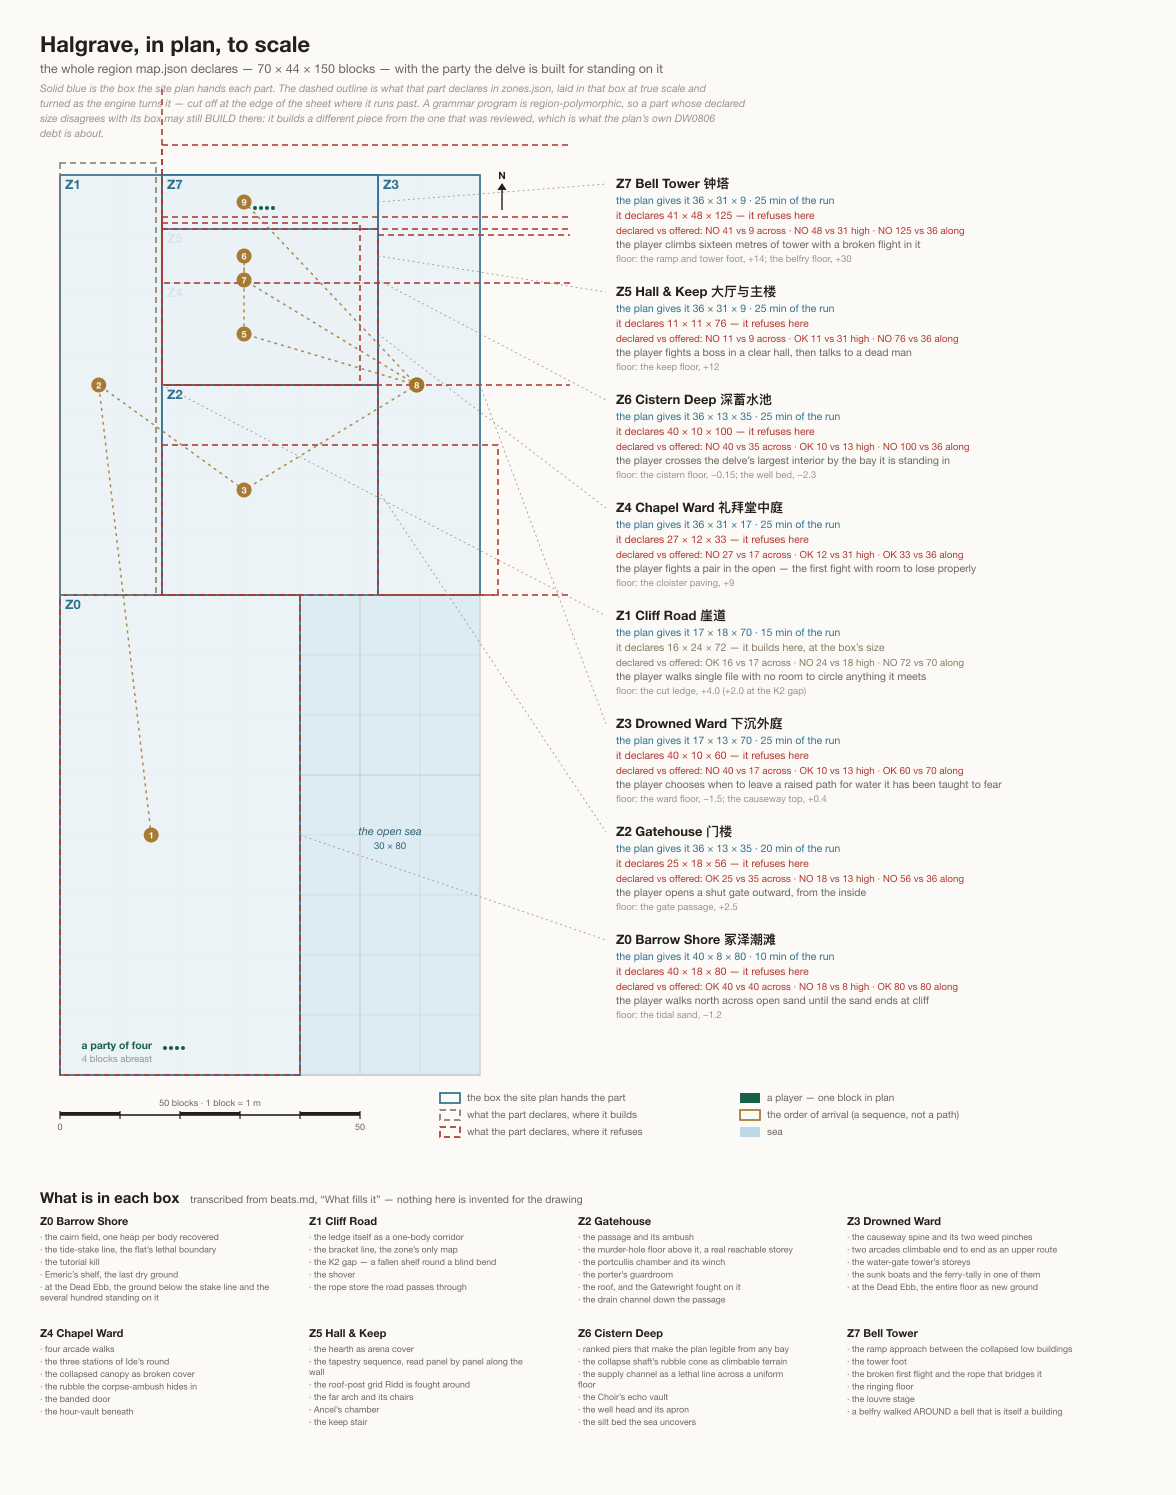
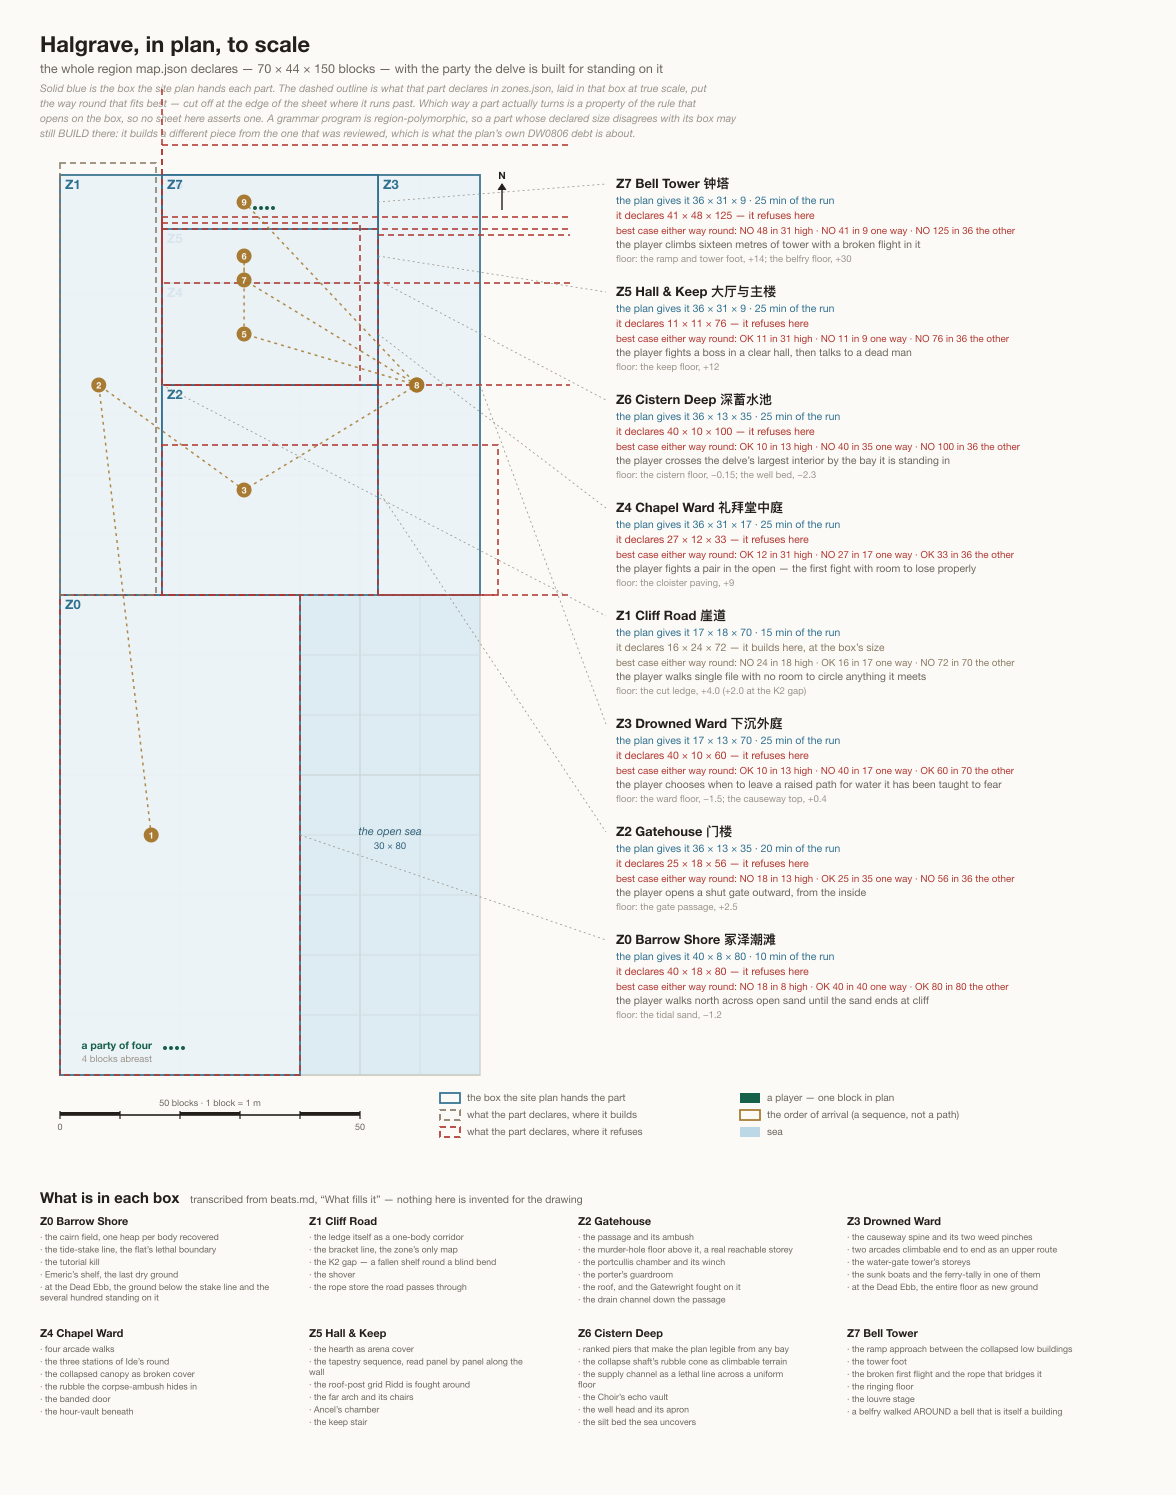
content(bell-r2): a sheet that asserts which way a part turns is asserting something it cannot know
The first cut of these drawings compared each part against its box on named
axes -- across, high, along -- and to do that it had to decide which way the
part turns in the box it is handed. It took that from the site plan derivation's
observation that a rule opens on the largest horizontal, and applied it to all
eight parts.

That is wrong at least once, and the engine says so in its own words: the chapel
ward's refusal names 33 blocks needed along world z against a scope 17 across,
untuned, while the derivation records four other parts reading their box turned.
Turning is a property of the rule that opens on the scope, not of the zone, so
it cannot be derived from the box and the region alone.

The sheets now assert no turn at all. Each part is compared against its box in
whichever orientation fits best -- height on its own, then the footprint either
way round -- which needs no assumption and loses nothing: where the best case
fails, no turn saves it, and where the best case fits, the sheet claims only
that. The dashed outline on the site plan is drawn the same way, best case, and
the sheet says so on its face.

Nothing in the reading changes. All seven parts that refuse still refuse in the
best orientation available to them, and the flat still misses on height alone
with both its plan numbers exact -- which is the refusal the zone-program audit
reports first when it expands the map.

diff --git a/campaigns/the-drowned-bell-r2/design/review/site-scale/draw.py b/campaigns/the-drowned-bell-r2/design/review/site-scale/draw.py
@@ -54,18 +54,21 @@ def local_y(param):
 
 
 # --------------------------------------------------------------------------
-def orient_box(dx, dz, bx, bz):
-    """The allocation as the part meets it.
+def best_fit(dx, dz, bx, bz):
+    """The box's two horizontals, put the way round that most favours fitting.
 
-    A grammar rule opens on the box's largest horizontal, so a part turns its
-    own length onto whichever of the box's two horizontals is longer
-    (`grammar.md` §5c, the reading `map-site-plan.md` §5 records). This is the
-    one placement fact on these sheets read out of documented behaviour rather
-    than measured; every sheet using it says so.
+    Which way a part actually turns in its box is a property of the rule that
+    opens on the scope, not of the zone: `map-site-plan.md` §5 records Z2, Z5,
+    Z6 and Z7 reading their box turned, while the engine's own refusal for Z4
+    names its 33 on world z untuned. So these sheets assert no turn at all.
+    They compare the part's footprint against the box **in whichever
+    orientation fits best**, which needs no assumption and is still decisive:
+    where the best case fails the part cannot fit either way round, and where
+    the best case fits the sheet claims only that.
     """
-    if dx >= dz:
-        return max(bx, bz), min(bx, bz)
-    return min(bx, bz), max(bx, bz)
+    d = sorted((dx, dz))
+    b = sorted((bx, bz))
+    return (b[0], b[1]) if d[0] == dx else (b[1], b[0])
 
 
 def crop(*masks):
@@ -183,8 +186,10 @@ def sheet1(path):
           'party the delve is built for standing on it' % (RX, RY, RZ),
           'Solid blue is the box the site plan hands each part. The dashed '
           'outline is what that part declares in zones.json, laid in that box '
-          'at true scale and turned as the engine turns it — cut off at the '
-          'edge of the sheet where it runs past. A grammar program is '
+          'at true scale, put the way round that fits best — cut off at the '
+          'edge of the sheet where it runs past. Which way a part actually '
+          'turns is a property of the rule that opens on the box, so no sheet '
+          'here asserts one. A grammar program is '
           'region-polymorphic, so a part whose declared size disagrees with '
           'its box may still BUILD there: it builds a different piece from the '
           'one that was reviewed, which is what the plan’s own DW0806 debt is '
@@ -218,9 +223,8 @@ def sheet1(path):
     for zid in ZF.ORDER:
         (ox, oy, oz), (bx, by, bz) = BOX[zid]
         dx, dy, dz = ZONES[zid]['region']
-        wx, wz = orient_box(dx, dz, bx, bz)
-        wx, wz = (max(dx, dz), min(dx, dz)) if bx >= bz else (min(dx, dz),
-                                                              max(dx, dz))
+        # drawn the way round that fits best, which is the only claim made
+        wx, wz = (dx, dz) if (bx >= bz) == (dx >= dz) else (dz, dx)
         ok = fits(zid)
         sh.rect(px(ox), py(oz + wz), wx * S, wz * S, 'none',
                 PART if ok else OVER, 1.7, .9, '6,4')
@@ -267,13 +271,13 @@ def sheet1(path):
                 'it declares %d × %d × %d  —  %s' %
                 (dx, dy, dz, 'it builds here, at the box’s size' if ok
                  else 'it refuses here'), 10.5, PART if ok else OVER)
-        abx, abz = orient_box(dx, dz, bx, bz)
+        abx, abz = best_fit(dx, dz, bx, bz)
         marks = []
-        for got, need, ax in ((abx, dx, 'across'), (by, dy, 'high'),
-                              (abz, dz, 'along')):
-            marks.append('%s %d vs %d %s' % ('OK ' if got >= need else 'NO ',
+        for got, need, ax in ((by, dy, 'high'), (abx, dx, 'one way'),
+                              (abz, dz, 'the other')):
+            marks.append('%s %d in %d %s' % ('OK' if got >= need else 'NO',
                                              need, got, ax))
-        sh.text(lab_x, ly + 46, 'declared vs offered:  ' +
+        sh.text(lab_x, ly + 46, 'best case either way round:  ' +
                 '   ·   '.join(marks), 9.8, PART if ok else OVER)
         sh.text(lab_x, ly + 60, 'the player ' + f['does'], 10.5, GREY)
         sh.text(lab_x, ly + 74, 'floor: ' + f['floor'], 9.5, FAINT)
@@ -334,7 +338,7 @@ def sheet2(path):
           'The storey drawn is the one with the most floor on it, chosen by '
           'count. Tone is wall; pale is floor a body can stand on. The heavy '
           'rectangle is the box the site plan hands that part, laid on the '
-          'part corner to corner and turned as the engine turns it. A grammar '
+          'part corner to corner, put the way round that fits best. A grammar '
           'program is region-polymorphic, so where a part DOES build in its '
           'box it builds a different piece from the one drawn here — which is '
           'what the plan’s own DW0806 debt is about.')
@@ -354,7 +358,7 @@ def sheet2(path):
         paint_plan(sh, m['floors'][lvl], gx, base, S, FLOOR)
         paint_plan(sh, m['levels'][lvl], gx, base, S, PART_FILL)
 
-        abx, abz = orient_box(dx, dz, bx, bz)
+        abx, abz = best_fit(dx, dz, bx, bz)
         sh.rect(gx, base - abz * S, abx * S, abz * S, 'none',
                 ALLOC if ok else OVER, 2.2, .95)
 

diff --git a/campaigns/the-drowned-bell-r2/design/review/site-scale/README.md b/campaigns/the-drowned-bell-r2/design/review/site-scale/README.md
@@ -15,7 +15,7 @@ rather than the boxes.**
 
 | sheet | what it shows |
 |---|---|
-| `01-site-plan.svg` | the whole region in plan at 1 block = 6 px — the box the plan hands each part, what that part declares laid in that box at true scale, the order of arrival, and a party of four standing on the sand. Every box carries the axis-by-axis comparison of declared against offered, so the direction each part misses in is on the page |
+| `01-site-plan.svg` | the whole region in plan at 1 block = 6 px — the box the plan hands each part, what that part declares laid in that box at true scale, the order of arrival, and a party of four standing on the sand. Every box carries the comparison of declared against offered — height, and the footprint whichever way round fits best — so the axis each part misses on is on the page |
 | `02-parts-at-scale.svg` | the eight parts as the engine actually builds them, at the same scale: each part's own floor plan measured off an expansion at the region `zones.json` declares, with its allocated box laid over it and the engine's own words when it is expanded there |
 | `03-section.svg` | the south–north section: the fourteen planes of the brief's massing table at the region-local layer `map.json` puts each at, the sixteen-block climb, and the tower zone's measured long section laid against the whole site's height and depth |
 | `04-how-big-is-the-rock.svg` | the ruler. The same plan re-evaluated at `rock_run` = 70, 90, 97 and 110, with every part expanded at the box each size gives it |
@@ -75,6 +75,14 @@ runs no engine at all.
 A reading, offered as one — the sheets are the instrument and this is not part
 of it.
 
+**Which way a part turns in its box is not asserted anywhere here.** It is a
+property of the rule that opens on the scope rather than of the zone: §5 of the
+site plan's derivation records four parts reading their box turned, and the
+engine's own refusal for the flat names its 40 × 8 × 80 with `x → world x`,
+untuned. So every comparison on these sheets is made in whichever orientation
+fits best, which needs no assumption and is still decisive — where the best case
+fails, no turn saves it.
+
 **The rock's size is not what is stopping anything.** Sheet 4 expands every part
 at the box every rock size from 70 to 140 gives it, and the set that builds does
 not change: it is the cliff road, at every size, and nothing else. The plan
@@ -84,6 +92,11 @@ against a tower that declares 125. Growing the rock grows an eighth of it. And
 the flat's box never moves at all, because both its plan numbers are brief facts
 and its height is `tide_y + road_y`; it refuses on height, and the rock cannot
 reach it.
+
+The first refusal the site plan reaches is the flat's, at a box 8 blocks high
+against a zone declaring 18, and that is what the zone-program audit reports
+when it expands `map-halgrave` at 70 × 44 × 150. Sheet 1 puts the same three
+numbers beside the same box.
 
 **The parts are not too big for the site.** Their declared volumes sum to
 440,336 blocks against a site of 462,000 — 95.3 % of it. They are the wrong
